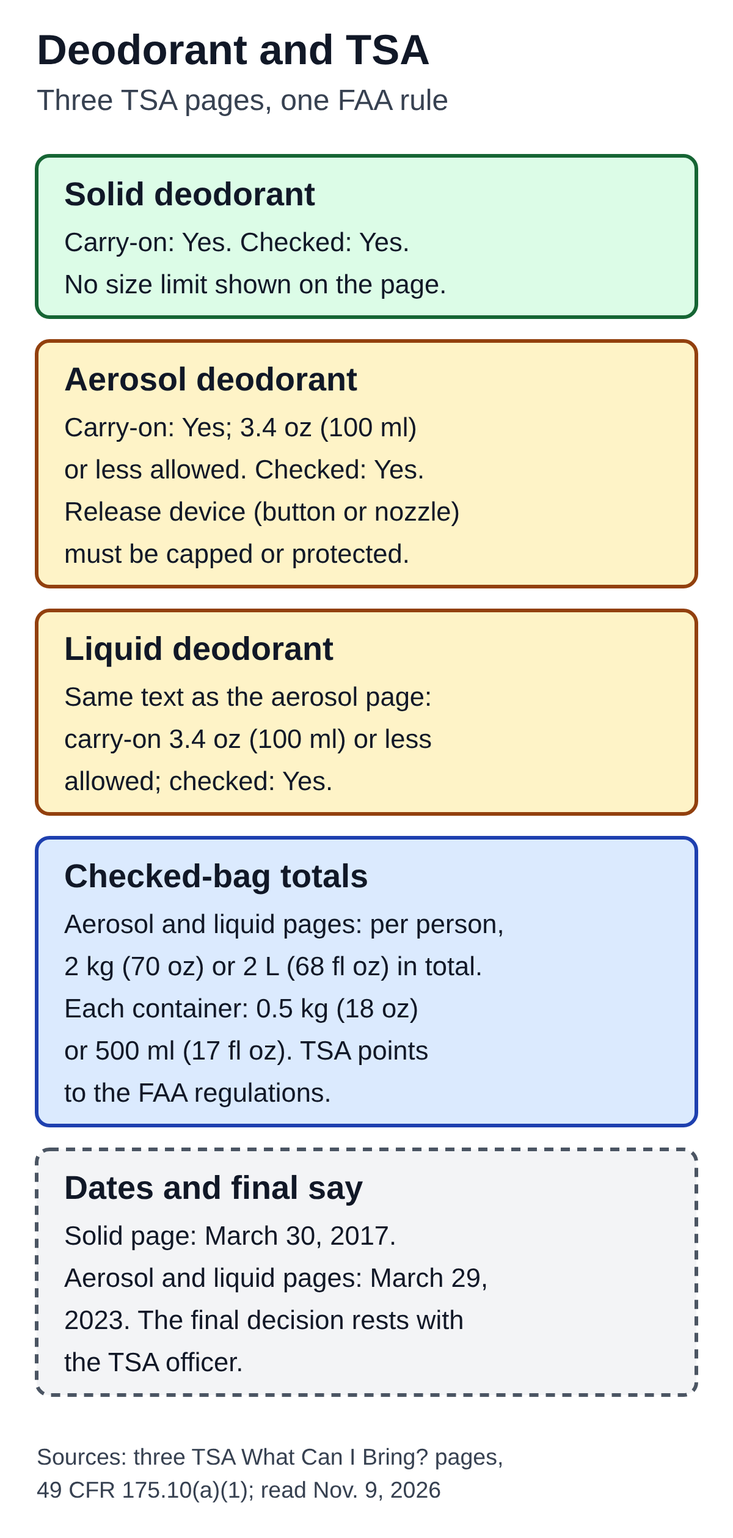
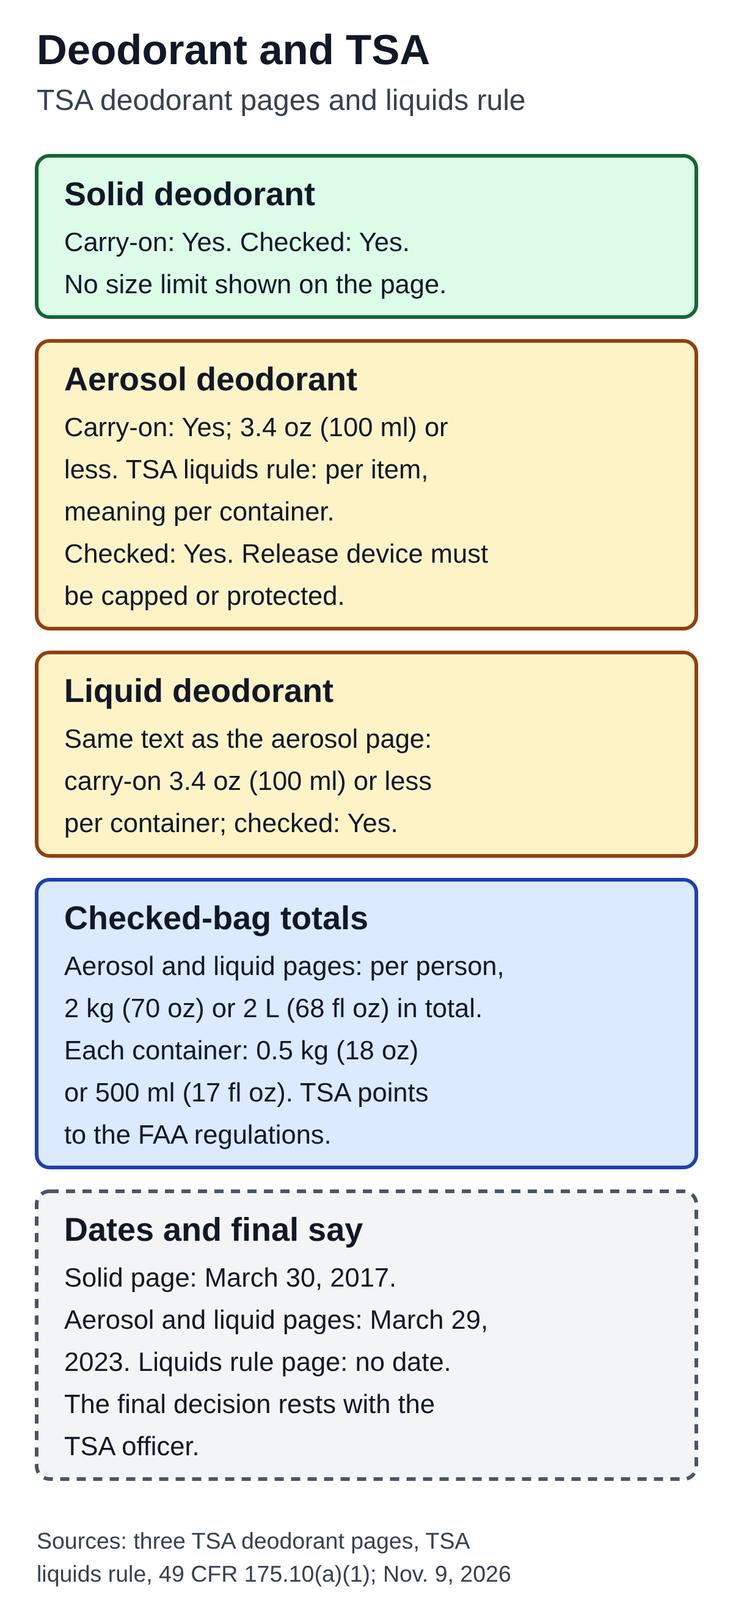
Gate 2 FIX for deodorant and Media Mail drafts
Deodorant: add TSA's liquids rule page as a source and state that the 3.4 oz limit is per container (body, diagram, alt). Media Mail: neutral delivery-time wording, "large and lightweight" fee wording from USPS.com, links to the USPS Price Calculator and Notice 123 (no amounts). Changed parts compared and recorded in the QA files.

Claude-Session: https://claude.ai/code/session_01BXtGEA3Qzg6u2ejRb8jbFU

Changed region(s): [[0.0308, 0.0, 0.9558, 0.8987], [0.0617, 0.9297, 0.6783, 0.9917]]

diff --git a/content/drafts/deodorant-on-a-plane-tsa.md b/content/drafts/deodorant-on-a-plane-tsa.md
@@ -6,26 +6,26 @@ category: Airport security rules
 focus_keyword: can you bring deodorant on a plane
 status: draft
 date: 2026-11-09
-internal_link_candidates: tsa-3-1-1-liquids-rule (published; one link in the closing section)
+internal_link_candidates: tsa-3-1-1-liquids-rule (published; one link in the carry-on section)
 image: assets/optimized/deodorant-on-a-plane-tsa.png
-image_alt: "Diagram of what TSA says about deodorant on a plane, from three TSA pages and the FAA rule in 49 CFR 175.10(a)(1). Solid deodorant: carry-on yes, checked yes; the page shows no size limit. Aerosol deodorant: carry-on yes, 3.4 ounces (100 ml) or less allowed; checked yes; release devices must be protected by caps or other suitable means. Liquid deodorant: the page has the same text as the aerosol page. Checked-bag totals on the aerosol and liquid pages: 2 kg (70 ounces) or 2 L (68 fluid ounces) per person in total, and no more than 0.5 kg (18 ounces) or 500 ml (17 fluid ounces) per container. Page dates: solid March 30, 2017; aerosol and liquid March 29, 2023. The final decision rests with the TSA officer. Sources read Nov. 9, 2026."
+image_alt: "Diagram of what TSA says about deodorant on a plane, from three TSA deodorant pages, TSA's liquids rule page and the FAA rule in 49 CFR 175.10(a)(1). Solid deodorant: carry-on yes, checked yes; the page shows no size limit. Aerosol deodorant: carry-on yes, 3.4 ounces (100 ml) or less allowed, which TSA's liquids rule page states as a limit per item, meaning per container; checked yes; release devices must be protected by caps or other suitable means. Liquid deodorant: the page has the same text as the aerosol page. Checked-bag totals on the aerosol and liquid pages: 2 kg (70 ounces) or 2 L (68 fluid ounces) per person in total, and no more than 0.5 kg (18 ounces) or 500 ml (17 fluid ounces) per container. Page dates: solid March 30, 2017; aerosol and liquid March 29, 2023; the liquids rule page shows no date. The final decision rests with the TSA officer. Sources read Nov. 9, 2026."
 ---
 
 # Can You Bring Deodorant on a Plane? What TSA Says by Type
 
-**Yes, in both carry-on and checked bags, with size limits for sprays and liquids.** TSA's pages list solid deodorant as allowed in carry-on and checked bags and show no size limit. For aerosol deodorant and liquid deodorant, TSA lists carry-on bags as "Yes" with 3.4 ounces (100 ml) or less allowed, and checked bags as "Yes."
+**Yes, in both carry-on and checked bags, with size limits for sprays and liquids.** TSA's pages list solid deodorant as allowed in carry-on and checked bags and show no size limit. For aerosol deodorant and liquid deodorant, TSA lists carry-on bags as "Yes" with 3.4 ounces (100 ml) or less allowed, and checked bags as "Yes." TSA's general liquids rule page states the 3.4-ounce limit per item, which this article reads as per container.
 
-This article covers what three TSA "What Can I Bring?" pages say (Deodorant (Solid), Deodorant (aerosol) and Deodorant (liquid)) and what the FAA rule they point to, 49 CFR 175.10(a)(1), says about toiletries in checked bags. The wording is as of November 9, 2026. Two of the pages carry a 2023 date and one a 2017 date, and the article gives each date. It does not cover other toiletries, gel or roll-on products, antiperspirant, airline rules, other countries or any one brand.
+This article covers what three TSA "What Can I Bring?" pages say (Deodorant (Solid), Deodorant (aerosol) and Deodorant (liquid)), what TSA's "Liquids, Aerosols, and Gels Rule" page says about the 3.4-ounce size, and what the FAA rule they point to, 49 CFR 175.10(a)(1), says about toiletries in checked bags. The wording is as of November 9, 2026. Two of the deodorant pages carry a 2023 date and one a 2017 date, and the article gives each date; the liquids rule page shows no date. It does not cover other toiletries, gel or roll-on products, antiperspirant, airline rules, other countries or any one brand.
 
-![Diagram of what TSA says about deodorant on a plane, from three TSA pages and the FAA rule in 49 CFR 175.10(a)(1). Solid deodorant: carry-on yes, checked yes; the page shows no size limit. Aerosol deodorant: carry-on yes, 3.4 ounces (100 ml) or less allowed; checked yes; release devices must be protected by caps or other suitable means. Liquid deodorant: the page has the same text as the aerosol page. Checked-bag totals on the aerosol and liquid pages: 2 kg (70 ounces) or 2 L (68 fluid ounces) per person in total, and no more than 0.5 kg (18 ounces) or 500 ml (17 fluid ounces) per container. Page dates: solid March 30, 2017; aerosol and liquid March 29, 2023. The final decision rests with the TSA officer. Sources read Nov. 9, 2026.](assets/optimized/deodorant-on-a-plane-tsa.png)
+![Diagram of what TSA says about deodorant on a plane, from three TSA deodorant pages, TSA's liquids rule page and the FAA rule in 49 CFR 175.10(a)(1). Solid deodorant: carry-on yes, checked yes; the page shows no size limit. Aerosol deodorant: carry-on yes, 3.4 ounces (100 ml) or less allowed, which TSA's liquids rule page states as a limit per item, meaning per container; checked yes; release devices must be protected by caps or other suitable means. Liquid deodorant: the page has the same text as the aerosol page. Checked-bag totals on the aerosol and liquid pages: 2 kg (70 ounces) or 2 L (68 fluid ounces) per person in total, and no more than 0.5 kg (18 ounces) or 500 ml (17 fluid ounces) per container. Page dates: solid March 30, 2017; aerosol and liquid March 29, 2023; the liquids rule page shows no date. The final decision rests with the TSA officer. Sources read Nov. 9, 2026.](assets/optimized/deodorant-on-a-plane-tsa.png)
 
 ## The three pages in one table
 
 | Type of deodorant | TSA: carry-on bags | TSA: checked bags | What the page adds | Page date |
 |---|---|---|---|---|
 | Solid | Yes | Yes | No size limit or other instruction on the page | March 30, 2017 |
-| Aerosol | Yes (3.4 oz / 100 ml or less allowed) | Yes | Checked-bag totals; release device must be protected | March 29, 2023 |
-| Liquid | Yes (3.4 oz / 100 ml or less allowed) | Yes | Same text as the aerosol page | March 29, 2023 |
+| Aerosol | Yes (3.4 oz / 100 ml or less allowed; per container, per TSA's liquids rule page) | Yes | Checked-bag totals; release device must be protected | March 29, 2023 |
+| Liquid | Yes (3.4 oz / 100 ml or less allowed; per container, per TSA's liquids rule page) | Yes | Same text as the aerosol page | March 29, 2023 |
 
 ## Solid deodorant
 
@@ -33,7 +33,9 @@ TSA's Deodorant (Solid) page lists carry-on bags "Yes" and checked bags "Yes." I
 
 ## Aerosol and liquid deodorant in carry-on
 
-TSA's Deodorant (aerosol) and Deodorant (liquid) pages carry the same header and the same text. Both list carry-on bags as "Yes (Less than or equal to 3.4oz/100 ml allowed)" and checked bags as "Yes." Both were last updated on March 29, 2023. The pages do not explain the 3.4-ounce figure, and this article does not add rules that the pages do not state. TSA's general liquids rule is covered in [What Is the TSA 3-1-1 Liquids Rule? What's Exempt?](https://statesideexplained.com/tsa-3-1-1-liquids-rule/).
+TSA's Deodorant (aerosol) and Deodorant (liquid) pages carry the same header and the same text. Both list carry-on bags as "Yes (Less than or equal to 3.4oz/100 ml allowed)" and checked bags as "Yes." Both were last updated on March 29, 2023. The deodorant pages do not say what the 3.4 ounces applies to.
+
+TSA's "Liquids, Aerosols, and Gels Rule" page does. It says you are allowed to bring a quart-sized bag of liquids, aerosols, gels, creams and pastes in your carry-on bag and through the checkpoint, limited to travel-sized containers of 3.4 ounces (100 milliliters) or less per item, and to pack containers larger than 3.4 ounces in checked baggage. Read together, the 3.4-ounce figure on the deodorant pages is the size limit for each container ("per item") carried in a carry-on bag. That page shows no update date. The deodorant pages themselves do not mention the quart-sized bag. More on the rule is in [What Is the TSA 3-1-1 Liquids Rule? What's Exempt?](https://statesideexplained.com/tsa-3-1-1-liquids-rule/).
 
 ## Aerosol and liquid deodorant in a checked bag
 
@@ -56,4 +58,5 @@ All pages were read on November 9, 2026.
 - TSA, "Deodorant (Solid)," What Can I Bring? (page shows "Last Updated on March 30, 2017"). https://www.tsa.gov/travel/security-screening/whatcanibring/items/deodorant-solid
 - TSA, "Deodorant (aerosol)," What Can I Bring? (page shows "Last Updated on March 29, 2023"). https://www.tsa.gov/travel/security-screening/whatcanibring/items/deodorant-aerosol
 - TSA, "Deodorant (liquid)," What Can I Bring? (page shows "Last Updated on March 29, 2023"). https://www.tsa.gov/travel/security-screening/whatcanibring/items/deodorant-liquid
+- TSA, "Liquids, Aerosols, and Gels Rule" (the page shows no update date). https://www.tsa.gov/travel/security-screening/liquids-aerosols-gels-rule
 - eCFR, 49 CFR 175.10, "Exceptions for passengers, crewmembers, and air operators," paragraph (a)(1) (page shows "up to date as of 11/05/2026"). https://www.ecfr.gov/current/title-49/section-175.10

diff --git a/content/drafts/usps-media-mail-what-qualifies.md b/content/drafts/usps-media-mail-what-qualifies.md
@@ -8,16 +8,16 @@ status: draft
 date: 2026-11-09
 internal_link_candidates: none planned (decide at Gate 2; related published posts on Package Intercept and mail forwarding mention Media Mail in one sentence)
 image: assets/optimized/usps-media-mail-what-qualifies.png
-image_alt: "Diagram of what USPS says about Media Mail, from the USPS.com Mail and Shipping Services page and Domestic Mail Manual 173. What qualifies, per the USPS.com list: books of at least 8 pages, films 16 millimeter or narrower, printed music and test materials, video and sound recordings, playscripts and manuscripts, printed educational reference charts, medical loose-leaf pages and binders, and computer-readable media. Does not qualify: USPS.com says video games, computer drives and digital drives do not; the DMM says films sent to or from commercial theaters and charts conveyed mainly by narrative text do not; items that are not allowed cost higher postage. Inspection and limits: Media Mail is open to postal inspection, USPS.com gives a maximum weight of 70 pounds, and extra fees apply to large, lightweight or nonstandard packages. Delivery time: USPS.com says shipping in 2 to 8 days, while the DMM says delivery within a specified time is not guaranteed. Neither page shows an update date. Sources read Nov. 9, 2026."
+image_alt: "Diagram of what USPS says about Media Mail, from the USPS.com Mail and Shipping Services page and Domestic Mail Manual 173. What qualifies, per the USPS.com list: books of at least 8 pages, films 16 millimeter or narrower, printed music and test materials, video and sound recordings, playscripts and manuscripts, printed educational reference charts, medical loose-leaf pages and binders, and computer-readable media. Does not qualify: USPS.com says video games, computer drives and digital drives do not; the DMM says films sent to or from commercial theaters and charts conveyed mainly by narrative text do not; items that are not allowed cost higher postage. Inspection and limits: Media Mail is open to postal inspection, USPS.com gives a maximum weight of 70 pounds, and USPS.com says extra fees apply to packages that are large and lightweight, nonstandard in size, shape or material, or perishable; no amounts are given. Delivery time: USPS.com shows shipping in 2 to 8 days and the DMM says delivery within a specified time is not guaranteed; the pages do not say whether the range is an estimate. Neither page shows an update date. Sources read Nov. 9, 2026."
 ---
 
 # What Can You Send by USPS Media Mail? What Qualifies
 
 **USPS says Media Mail is for a short list of items: books, films, printed music, recordings and a few educational and medical materials.** USPS.com says that if you include anything that is not allowed, you or your recipient will have to pay higher postage rates, and that all Media Mail packages are subject to opening and inspection. USPS.com gives a maximum weight of 70 pounds.
 
-This article covers what two USPS pages say: the Media Mail section of the USPS.com Mail & Shipping Services page and section 173 of the Domestic Mail Manual (DMM), "Media Mail and Library Mail." The wording is as of November 9, 2026. Neither page shows an update date. The article gives no prices or fee amounts, because both pages point to separate price lists, and it does not cover Library Mail in detail, commercial mailings, international mail or how a borderline item would be treated at a Post Office.
+This article covers what two USPS pages say: the Media Mail section of the USPS.com Mail & Shipping Services page and section 173 of the Domestic Mail Manual (DMM), "Media Mail and Library Mail." The wording is as of November 9, 2026. Neither page shows an update date. The article gives no prices or fee amounts and instead links USPS's price calculator and price list, and it does not cover Library Mail in detail, commercial mailings, international mail or how a borderline item would be treated at a Post Office.
 
-![Diagram of what USPS says about Media Mail, from the USPS.com Mail and Shipping Services page and Domestic Mail Manual 173. What qualifies, per the USPS.com list: books of at least 8 pages, films 16 millimeter or narrower, printed music and test materials, video and sound recordings, playscripts and manuscripts, printed educational reference charts, medical loose-leaf pages and binders, and computer-readable media. Does not qualify: USPS.com says video games, computer drives and digital drives do not; the DMM says films sent to or from commercial theaters and charts conveyed mainly by narrative text do not; items that are not allowed cost higher postage. Inspection and limits: Media Mail is open to postal inspection, USPS.com gives a maximum weight of 70 pounds, and extra fees apply to large, lightweight or nonstandard packages. Delivery time: USPS.com says shipping in 2 to 8 days, while the DMM says delivery within a specified time is not guaranteed. Neither page shows an update date. Sources read Nov. 9, 2026.](assets/optimized/usps-media-mail-what-qualifies.png)
+![Diagram of what USPS says about Media Mail, from the USPS.com Mail and Shipping Services page and Domestic Mail Manual 173. What qualifies, per the USPS.com list: books of at least 8 pages, films 16 millimeter or narrower, printed music and test materials, video and sound recordings, playscripts and manuscripts, printed educational reference charts, medical loose-leaf pages and binders, and computer-readable media. Does not qualify: USPS.com says video games, computer drives and digital drives do not; the DMM says films sent to or from commercial theaters and charts conveyed mainly by narrative text do not; items that are not allowed cost higher postage. Inspection and limits: Media Mail is open to postal inspection, USPS.com gives a maximum weight of 70 pounds, and USPS.com says extra fees apply to packages that are large and lightweight, nonstandard in size, shape or material, or perishable; no amounts are given. Delivery time: USPS.com shows shipping in 2 to 8 days and the DMM says delivery within a specified time is not guaranteed; the pages do not say whether the range is an estimate. Neither page shows an update date. Sources read Nov. 9, 2026.](assets/optimized/usps-media-mail-what-qualifies.png)
 
 ## What qualifies, item by item
 
@@ -47,11 +47,11 @@ USPS.com says all Media Mail packages are subject to opening and inspection by t
 
 ## Weight, size and fees
 
-USPS.com gives a maximum weight of 70 pounds and sends readers to the Media Mail eligibility standards (the DMM section above) for the full list of requirements. It also says you will pay additional fees for a package that is large and lightweight, has a nonstandard size, shape or material, or has perishable items. The DMM says Media Mail pieces are charged per pound or fraction thereof, and that any fraction of a pound counts as a whole pound. This article gives no amounts.
+USPS.com gives a maximum weight of 70 pounds and sends readers to the Media Mail eligibility standards (the DMM section above) for the full list of requirements. It also says you will pay additional fees for a package that is large and lightweight, has a nonstandard size, shape or material, or has perishable items. The DMM says Media Mail pieces are charged per pound or fraction thereof, and that any fraction of a pound counts as a whole pound. This article gives no amounts. For prices, USPS.com links its [Price Calculator](https://postcalc.usps.com/), and the DMM refers readers to [Notice 123, the USPS price list](https://pe.usps.com/text/dmm300/Notice123.htm).
 
 ## Delivery time
 
-The two pages do not say the same thing. USPS.com shows "Shipping in 2-8 Days" for Media Mail, with a footnote that service to or from destinations outside the contiguous U.S. may be affected by limited transportation. The DMM says USPS does not guarantee the delivery of Media Mail or Library Mail within a specified time. The article does not say which statement controls.
+USPS.com shows "Shipping in 2-8 Days" for Media Mail, with a footnote that service to or from destinations outside the contiguous U.S. may be affected by limited transportation. The DMM says USPS does not guarantee the delivery of Media Mail or Library Mail within a specified time. Both statements are on official USPS pages. The pages do not say whether the USPS.com range is an estimate, so this article does not read it as a promise, and it does not say which statement controls.
 
 ## Enclosures and writing on the package
 

diff --git a/editorial/qa/usps-media-mail-what-qualifies.md b/editorial/qa/usps-media-mail-what-qualifies.md
@@ -66,3 +66,22 @@ Title 52 characters; slug `usps-media-mail-what-qualifies`; meta description 154
 ## Result and next step
 
 Gate 1: **PASS** (23 of 23 claims, 6 of 6 image checks). Next: push, Gate 2 by commit SHA. After a Gate 2 PASS under the standing rule: ready, WordPress draft, phone preview, re-read of both pages right before publishing, publish if unchanged, live QA and records.
+
+## Gate 2 round 1 (base `7c150b1`): FIX applied 2026-11-09
+
+**Findings (ChatGPT):** (1) the "2-8 days" and "no guarantee" lines were presented as a conflict; (2) the diagram and alt said "large, lightweight or nonstandard" where USPS says "large and lightweight"; (3) add an official price list or calculator link to the body. **Fixes:** (1) the delivery-time section is now neutral: both statements are on official USPS pages, the pages do not say whether the USPS.com range is an estimate, the article does not read it as a promise and does not say which statement controls; the diagram card is titled "Delivery time" (no longer "the pages differ") and says the pages do not say if the range is an estimate; the alt says the same. (2) The diagram card and alt now follow USPS.com: extra fees for a package that is large and lightweight, has a nonstandard size, shape or material, or has perishable items; no amounts. (3) The fees section links USPS.com's Price Calculator (https://postcalc.usps.com/, linked from the USPS.com Media Mail section) and Notice 123 (https://pe.usps.com/text/dmm300/Notice123.htm, linked from DMM 173 section 1.1; the page loads and lists Media Mail under retail prices); the scope paragraph now says the article links these instead of giving amounts. No amount was read or used.
+
+**Sources (re-read at Gate 1 the same day; link targets read after the finding):** USPS.com fee sentence and the 2-8 days line with its footnote: present (Gate 1 test, 18 of 18 phrases and the footnote); the Price Calculator link and the "TIP: Use the USPS Price Calculator tool" sentence on the USPS.com page; DMM 173 section 1.1 link to Notice 123.
+
+| Place | New wording | Matches source | Result |
+|---|---|---|---|
+| Scope paragraph | gives no prices or fee amounts and links USPS's price calculator and price list | S1; S2 | pass |
+| Fees section | adds "For prices, USPS.com links its Price Calculator, and the DMM refers readers to Notice 123, the USPS price list" with both links | S1; S2 | pass |
+| Delivery time section | neutral wording as above; the footnote about service outside the contiguous U.S. is kept | S1; S2 | pass |
+| Diagram "Inspection and limits" card | "Extra fees (USPS.com): large and lightweight, nonstandard size, shape or material, or perishable items. No amounts here." | S1 | pass |
+| Diagram "Delivery time" card | "USPS.com: shipping in 2-8 days. DMM: delivery within a specified time is not guaranteed. The pages do not say if the range is an estimate." | S1; S2 | pass |
+| Alt text (1,168 characters), front matter and body identical | same meaning as the diagram | | pass |
+| PNG and SVG in the repository | 1200 x 2697, 449,297 bytes, sha256 0bd4bbc2...5f87; no text past the right margin | | pass |
+
+Nothing else was changed. The word "differ" no longer appears in the article's delivery-time wording.
+

diff --git a/editorial/qa/deodorant-on-a-plane-tsa.md b/editorial/qa/deodorant-on-a-plane-tsa.md
@@ -57,3 +57,24 @@ Title 57 characters; slug `deodorant-on-a-plane-tsa`; meta description 147 chara
 ## Result and next step
 
 Gate 1: **PASS** (14 of 14 claims, 7 of 7 image checks). Next: push, Gate 2 by commit SHA. After a Gate 2 PASS under the standing rule: ready, WordPress draft, phone preview, re-read of the three TSA pages, the item search and the eCFR paragraph right before publishing, publish if unchanged, live QA and records.
+
+## Gate 2 round 1 (base `7c150b1`): FIX applied 2026-11-09
+
+**Finding (ChatGPT):** add TSA's general liquids guidance as a source and state clearly that the 3.4 oz figure is the carry-on size limit per container, in the body, diagram and alt. **Fix:** TSA "Liquids, Aerosols, and Gels Rule" added as S5 and to the sources list; the carry-on section now quotes it (quart-sized bag of liquids, aerosols, gels, creams and pastes; containers of 3.4 ounces (100 ml) or less per item; larger containers in checked baggage), says the deodorant pages do not say what the 3.4 ounces applies to, and reads the figure as the limit for each container ("per item"); the lead, scope paragraph, table and sources list say the same; the diagram aerosol and liquid cards and the alt say "per item, meaning per container" and "per container".
+
+**Source re-read (TSA liquids rule page, 2026-11-09, after the finding):** 3 of 3 phrases present; the page shows no update date and does not mention deodorant.
+
+| Place | New wording | Matches source | Result |
+|---|---|---|---|
+| Lead | TSA's general liquids rule page states the 3.4-ounce limit per item, which this article reads as per container | S5 | pass |
+| Scope paragraph | names the liquids rule page; says it shows no date | S5 | pass |
+| Table (aerosol and liquid rows) | "3.4 oz / 100 ml or less allowed; per container, per TSA's liquids rule page" | S5; S1; S2 | pass |
+| Carry-on section | quotes the rule page; deodorant pages do not say what the 3.4 oz applies to; deodorant pages do not mention the quart-sized bag | S5; S1; S2 | pass (absence tested) |
+| Sources list | fifth source added with "shows no update date" | S5 | pass |
+| Diagram aerosol card | "Carry-on: Yes; 3.4 oz (100 ml) or less. TSA liquids rule: per item, meaning per container. Checked: Yes. Release device must be capped or protected." | S1; S5; S4 | pass |
+| Diagram liquid card, dates card, footer | "per container"; "Liquids rule page: no date"; sources include the liquids rule | S2; S5 | pass |
+| Alt text (894 characters), front matter and body identical | same meaning as the diagram | | pass |
+| PNG and SVG in the repository | 1200 x 2655, 415,468 bytes, sha256 f7cd4bb4...d422; no text past the right margin | | pass |
+
+Nothing else was changed (the checked-bag totals, FAA paragraph, release-device and other sections are as at Gate 1).
+

diff --git a/research/sources/deodorant-on-a-plane-tsa.md b/research/sources/deodorant-on-a-plane-tsa.md
@@ -18,6 +18,14 @@ URL https://www.tsa.gov/travel/security-screening/whatcanibring/items/deodorant-
 
 URL https://www.ecfr.gov/current/title-49/section-175.10 (page "up to date as of 11/05/2026", title last amended 10/28/2026). Verbatim: "(1)(i) Non-radioactive medicinal and toilet articles for personal use (including aerosols) carried in carry-on and checked baggage. Release devices on aerosols must be protected by a cap or other suitable means to prevent inadvertent release; (ii) Other aerosols in Division 2.2 (nonflammable gas) with no subsidiary risk carried in carry-on or checked baggage. Release devices on aerosols must be protected by a cap or other suitable means to prevent inadvertent release; (iii) The aggregate quantity of these hazardous materials carried by each person may not exceed 2 kg (70 ounces) by mass or 2 L (68 fluid ounces) by volume and the capacity of each container may not exceed 0.5 kg (18 ounces) by mass or 500 ml (17 fluid ounces) by volume; and (iv) The release of gas must not cause extreme annoyance or discomfort to crew members so as to prevent the correct performance of assigned duties."
 
+## S5 — TSA, "Liquids, Aerosols, and Gels Rule" (primary, official; added at Gate 2 round 1, 2026-11-09)
+
+URL https://www.tsa.gov/travel/security-screening/liquids-aerosols-gels-rule . No update date on the page; it does not mention deodorant. Verbatim: "You are allowed to bring a quart-sized bag of liquids, aerosols, gels, creams and pastes in your carry-on bag and through the checkpoint. These are limited to travel-sized containers that are 3.4 ounces (100 milliliters) or less per item." "Pack items that are in containers larger than 3.4 ounces or 100 milliliters in checked baggage."
+
+| ID | Statement | Source |
+|---|---|---|
+| D9 | TSA liquids rule page: a quart-sized bag of liquids, aerosols, gels, creams and pastes in the carry-on; travel-sized containers of 3.4 oz (100 ml) or less per item; larger containers go in checked baggage; no date; no mention of deodorant | S5 |
+
 ## TSA item search
 
 https://www.tsa.gov/travel/security-screening/whatcanibring/all?combine=deodorant returns exactly: deodorant-aerosol, deodorant-liquid, deodorant-solid (2026-11-09).

diff --git a/research/sources/usps-media-mail-what-qualifies.md b/research/sources/usps-media-mail-what-qualifies.md
@@ -40,9 +40,13 @@ Verbatim (selected): 1.2 "Media Mail and Library Mail pieces are charged per pou
 | D14 | DMM 6.3: an invoice relating solely to the matter mailed may be inside or in an envelope marked "Invoice Enclosed" attached outside | Stated |
 | D15 | DMM 1.2: charged per pound or fraction thereof (no amounts) | Stated |
 
+## Price links (added at Gate 2 round 1, 2026-11-09; links only, no amounts read or used)
+
+USPS.com's Media Mail section says "Use the USPS Price Calculator tool to calculate your domestic postage costs" and links "Calculate a Price" at https://postcalc.usps.com/ . DMM 173 section 1.1 says "See Notice 123-Price List for single-piece prices" and links https://pe.usps.com/text/dmm300/Notice123.htm (the page loads and lists Media Mail under retail prices).
+
 ## Differences shown in the article (not resolved)
 
-- Delivery time: S1 "Shipping in 2-8 Days"; S2 does not guarantee delivery within a specified time.
+- Delivery time: S1 "Shipping in 2-8 Days"; S2 does not guarantee delivery within a specified time. Not a stated conflict: the pages do not say whether the S1 range is an estimate (reworded at Gate 2 round 1).
 - Video games and digital media: S1 says video games, computer drives and digital drives do not qualify; S2 lists "computer-readable media containing prerecorded information" and does not mention video games. The article states both and does not say which controls.
 - Neither page shows an update date.
 

diff --git a/docs/decision-log.md b/docs/decision-log.md
@@ -1392,3 +1392,7 @@ On the user's go-ahead (push of `988794a` done), about 20 TSA and USPS phrases w
 
 **Open:** the user pushes the local commit and sends both posts to Gate 2; Thanksgiving USPS notice check 2026-11-14 09:00 KST; TSA holiday food stays held.
 
+## 2026-11-09 (KST, later) — Gate 2 on `7c150b1`: deodorant and Media Mail FIX applied
+
+**Deodorant:** TSA's "Liquids, Aerosols, and Gels Rule" page added as a source; the 3.4 oz figure is now stated as the limit per item (per container) in the lead, scope, table, carry-on section, sources list, diagram and alt; the deodorant pages' silence on what the figure applies to and on the quart-sized bag is stated. **Media Mail:** the "2-8 days" and "no guarantee" lines are no longer presented as a conflict (the pages do not say whether the range is an estimate); "large and lightweight" now matches USPS.com in the diagram and alt; links to USPS.com's Price Calculator and to Notice 123 added (no amounts). Only changed parts were compared and recorded in each QA file. Re-check by Gate 2 on the new SHA is next; WordPress drafts and the table phone checks follow a PASS.
+
